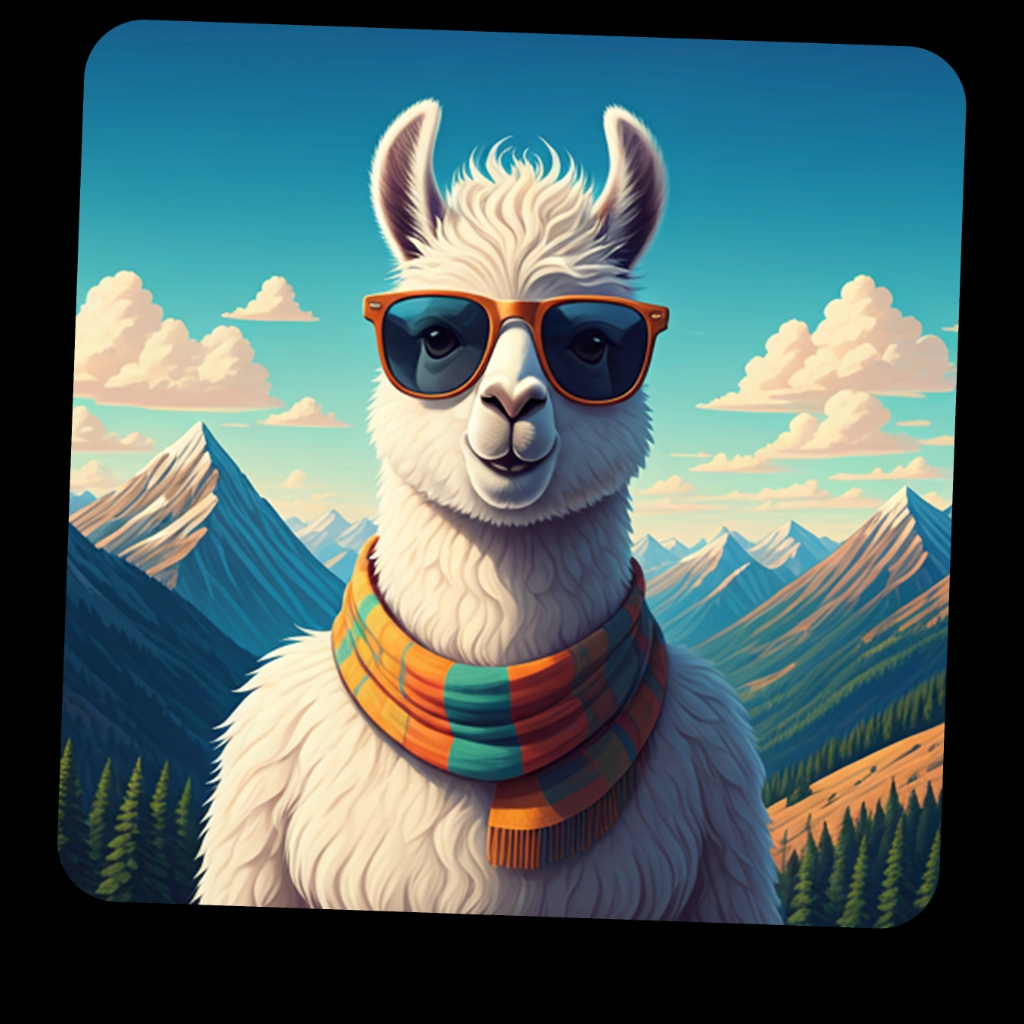
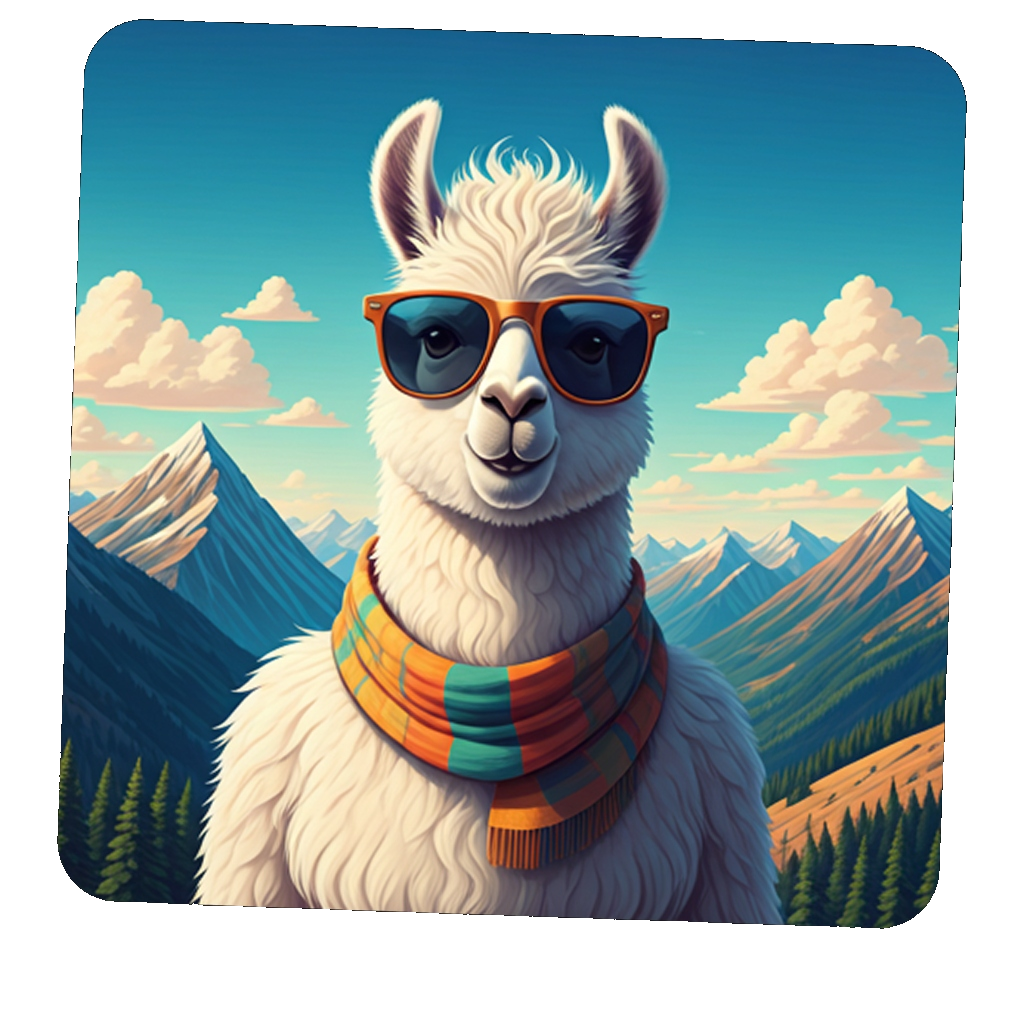
Remove outer border line from Bonjo Mascot image container and process image transparency

Changed region(s): [[0.0, 0.0, 1.0, 1.0]]

diff --git a/src/app/page.tsx b/src/app/page.tsx
@@ -1076,7 +1076,7 @@ export default function Homepage() {
           <div className="relative">
             {/* Soft glow background */}
             <div className="absolute -top-10 -left-10 w-48 h-48 bg-[#FF5A36]/15 rounded-full blur-3xl" />
-            <div className="relative rounded-[12px] overflow-hidden shadow-2xl border border-gray-150 transform -rotate-2 hover:rotate-0 transition-transform duration-500 w-full md:w-[584px] md:h-[584px] aspect-square mx-auto md:mx-0 bg-gray-50">
+            <div className="relative rounded-[12px] overflow-hidden shadow-2xl transform -rotate-2 hover:rotate-0 transition-transform duration-500 w-full md:w-[584px] md:h-[584px] aspect-square mx-auto md:mx-0 bg-white">
               {/* Orange gradient overlay in top-left */}
               <div className="absolute top-0 left-0 w-40 h-40 bg-gradient-to-br from-[#FF5A36]/40 via-[#FF5A36]/10 to-transparent pointer-events-none z-10" />
               <img 